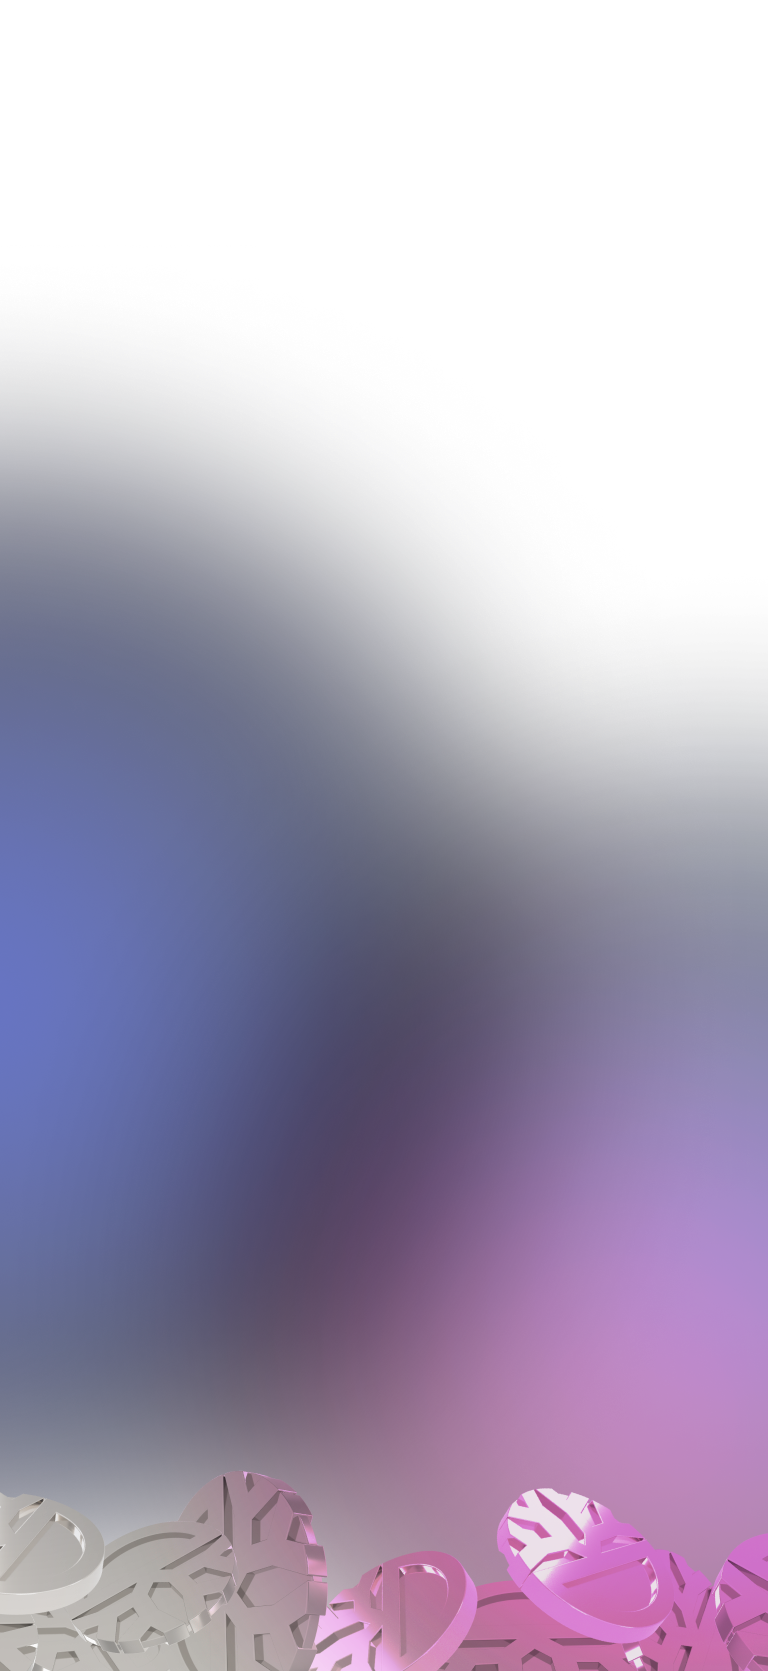
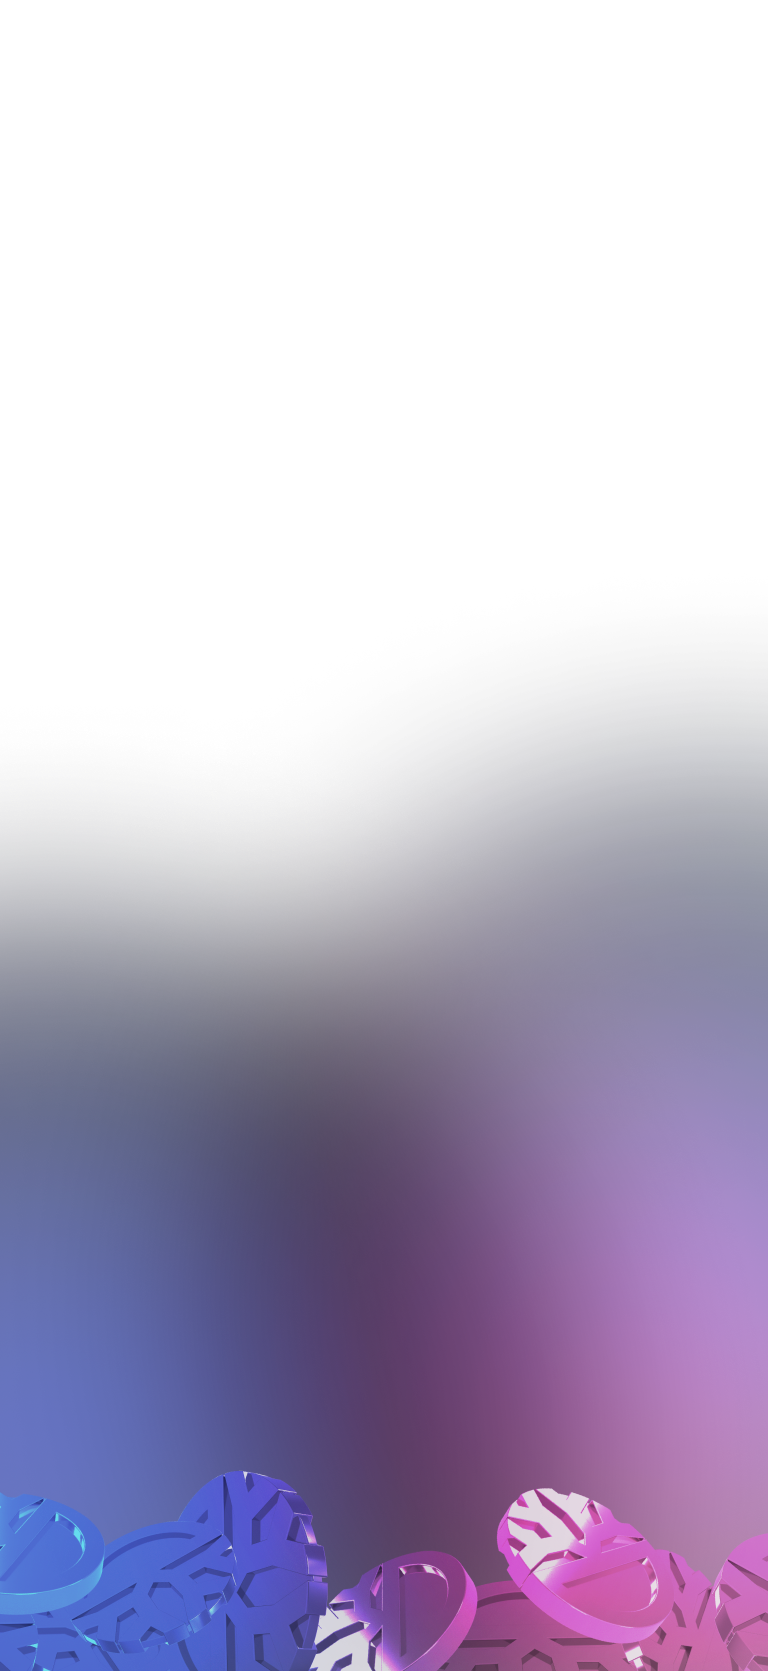
fix: update tablet bg and add key prop

diff --git a/src/components/home/Footer.tsx b/src/components/home/Footer.tsx
@@ -52,7 +52,7 @@ function FooterColumn({
     <div className="flex flex-col gap-4 w-full">
       <div className="font-medium text-white-50">{category}</div>
       {childLinks.map((link) => (
-        <FooterLinkItem href={link.href} label={link.label} />
+        <FooterLinkItem href={link.href} label={link.label} key={link.label} />
       ))}
     </div>
   );
